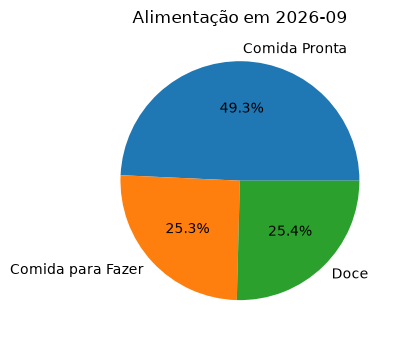
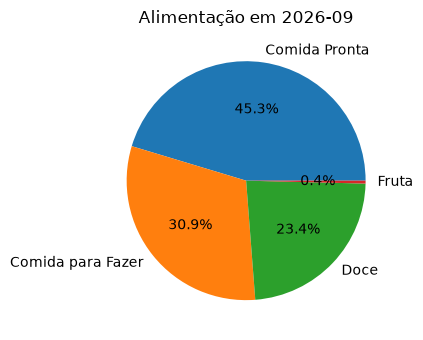
Add expense registration for multiple products and fix expense value calculation

diff --git a/Application.py b/Application.py
@@ -422,6 +422,8 @@ class InserirGastoView(Frame):
                 message += f"{produto.__str__(1)} dia: {data}\n"
             if messagebox.askyesno(title="Produtos Encontrados", message=message):
                 db.showGastos()
+                for produto in produtos:
+                    self.cadastrar_gasto(produto)
                 messagebox.showinfo(title="Cadastro Concluído", message="Nota fiscal cadastrada com sucesso")
             else:
                 messagebox.showwarning(title="Cadastro Cancelado", message="Nota fiscal não foi cadastrada")

diff --git a/BancoDeDados.py b/BancoDeDados.py
@@ -99,7 +99,7 @@ class DataBase:
     def insertGasto(gasto, parcelas="1"):
         parc = int(parcelas)
         data_base = date.fromisoformat(gasto.date)
-        val_parc = gasto.price / parc
+        val_parc = float(gasto.price) / parc
         with sqlite3.connect(DataBase.nome) as gastosDB:
             cursor = gastosDB.cursor()
             for i in range(parc):
